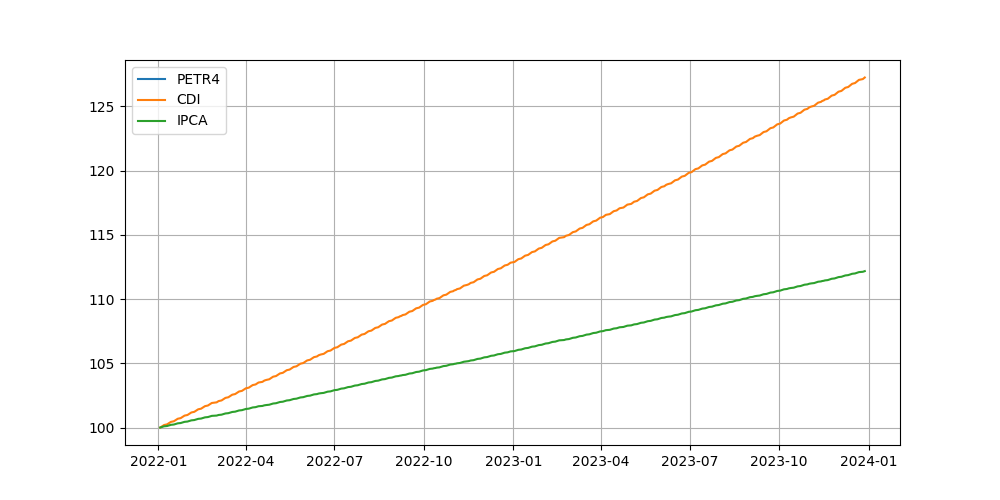
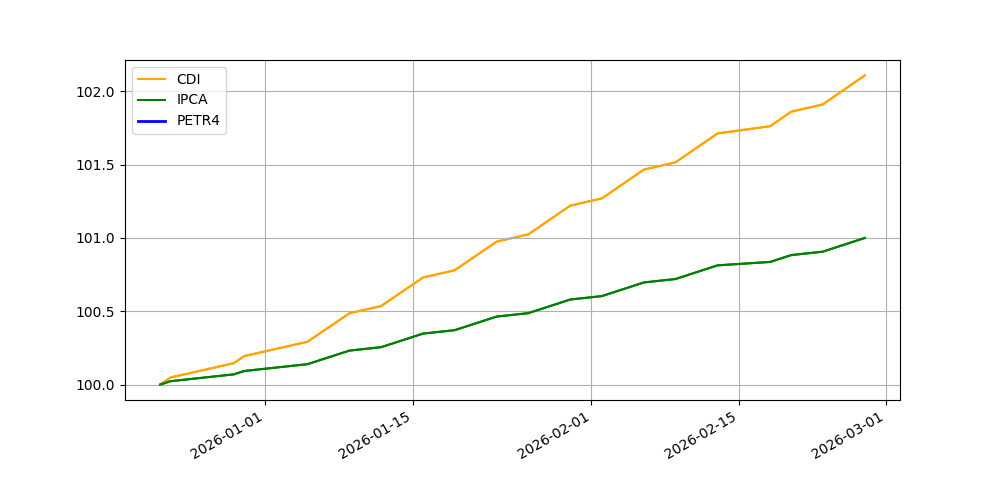
destacando a linha azul no grafico

diff --git a/analise_investimentos.py b/analise_investimentos.py
@@ -2,8 +2,8 @@ import pandas as pd
 import matplotlib.pyplot as plt
 import yfinance as yf
 
-inicio = "2022-01-01"
-fim = "2024-01-01"
+inicio = '2025-12-22'
+fim = '2026-03-02'
 
 acao = yf.download("PETR4.SA", start=inicio, end=fim)
 
@@ -24,12 +24,21 @@ dados["IPCA"] = [(1 + ipca_diario) ** i for i in range(len(dados))]
 dados = dados / dados.iloc[0] * 100
 
 plt.figure(figsize=(10,5))
-plt.plot(dados["PETR4"], label="PETR4")
-plt.plot(dados["CDI"], label="CDI")
-plt.plot(dados["IPCA"], label="IPCA")
+plt.plot(dados["CDI"], label="CDI", color='orange', zorder=1)
+plt.plot(dados["IPCA"], label="IPCA", color='green', zorder=2)
+# O zorder=3 coloca a linha azul por cima das outras
+plt.plot(dados["PETR4"], label="PETR4", color='blue', linewidth=2, zorder=3)
 
 plt.legend()
 plt.grid()
+# Definimos as cores e a ordem (zorder maior fica por cima)
+plt.plot(dados["CDI"], label="CDI", color='orange', zorder=1)
+plt.plot(dados["IPCA"], label="IPCA", color='green', zorder=2)
+plt.plot(dados["PETR4"], label="PETR4", color='blue', zorder=3) # PETR4 por cima de tudo
+
+# 2. Melhora as marcações das datas para tentar mostrar o final de 2025
+plt.gcf().autofmt_xdate()
 plt.show()
+
 
 print(dados.iloc[-1])